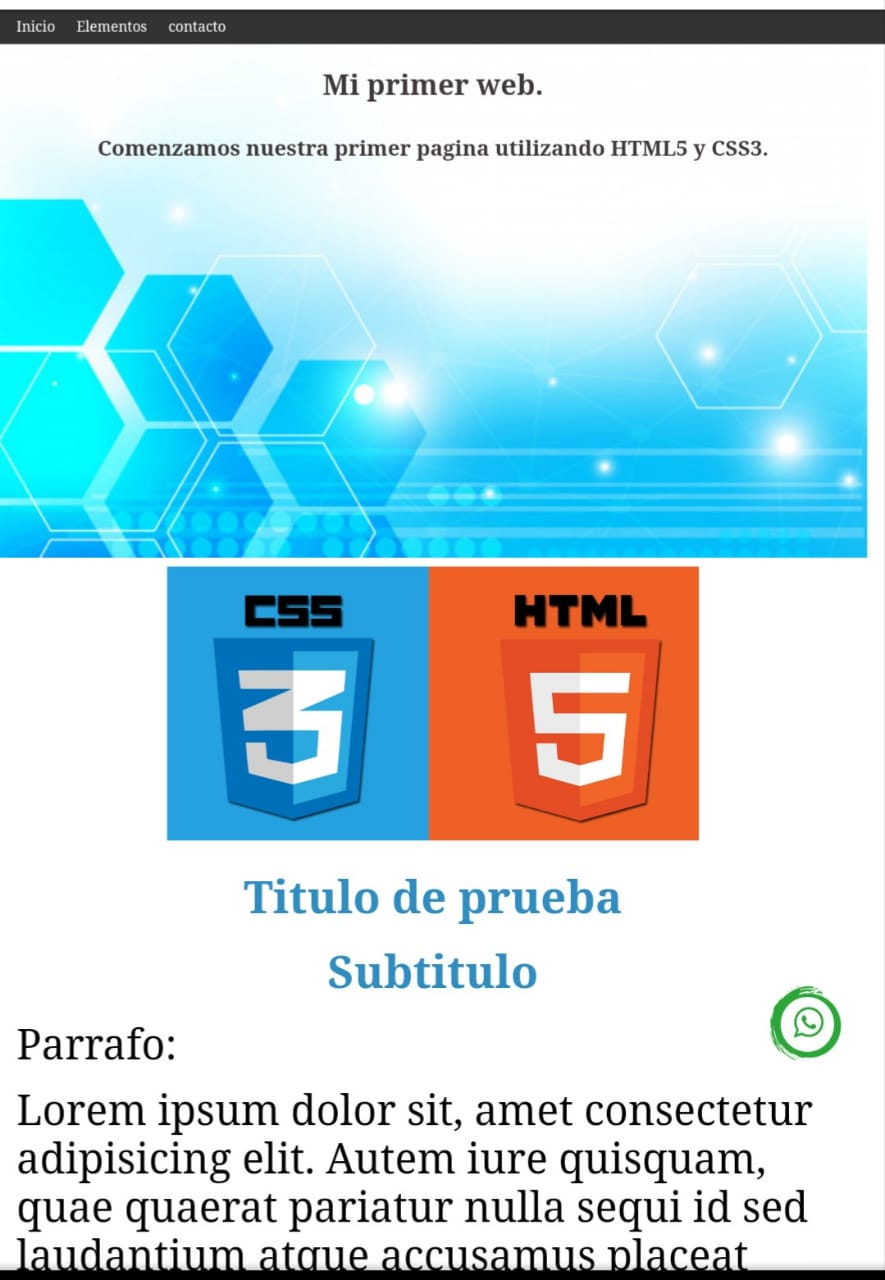
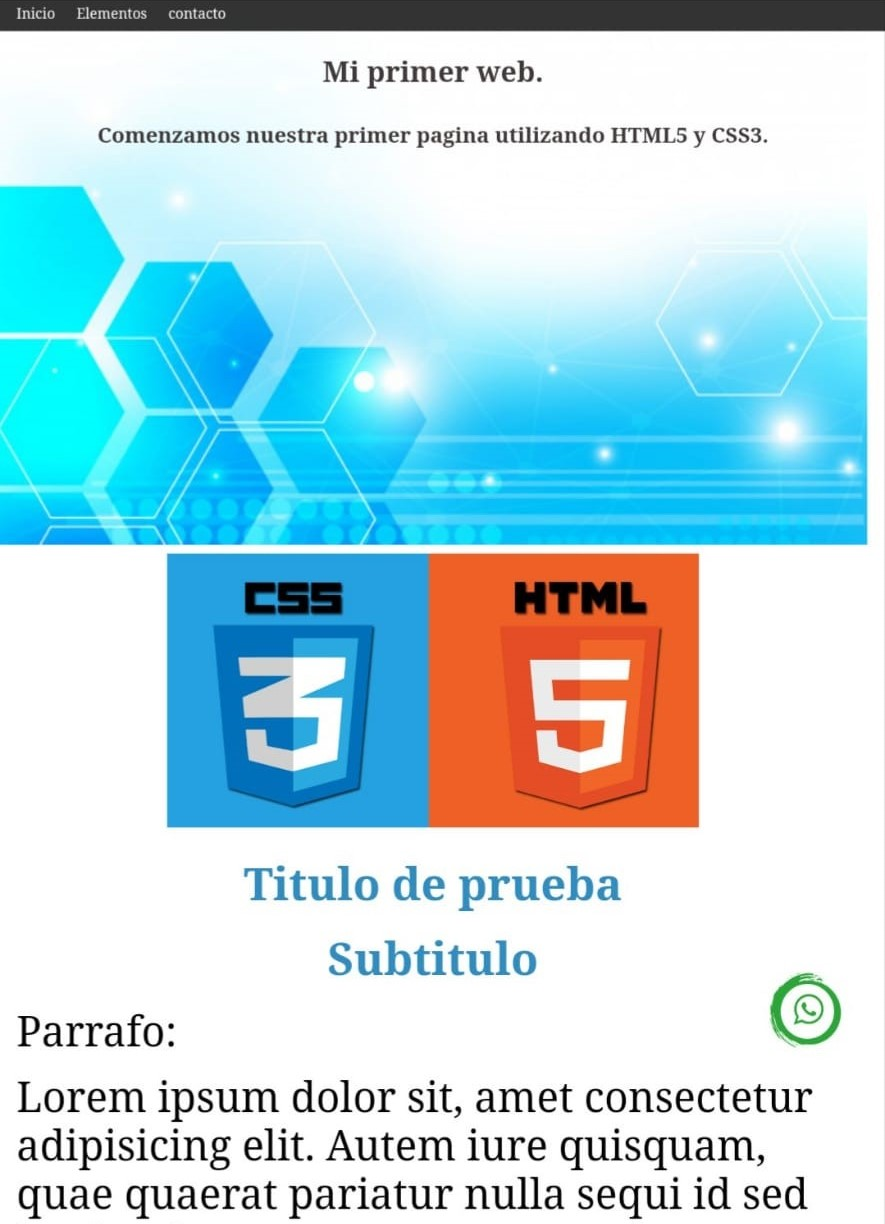
se completo galeria y se agrego foto de perfil

diff --git a/index.html b/index.html
@@ -9,7 +9,6 @@
         integrity="sha384-Vkoo8x4CGsO3+Hhxv8T/Q5PaXtkKtu6ug5TOeNV6gBiFeWPGFN9MuhOf23Q9Ifjh" crossorigin="anonymous">
     <script src="https://kit.fontawesome.com/6dac794d34.js" crossorigin="anonymous"></script>
     <link rel="stylesheet" href="css/style.css">
-    <!--agregar metas de autor descripcion y key-->
 </head>
 
 <body>
@@ -17,7 +16,7 @@
     <header>
         <nav class="navbar navbar-expand-lg navbar-dark bg-dark">
             <div class="container">
-                <a class="navbar-brand" href="#">Juan Manuel Pacheco</a>
+                <a class="navbar-brand" href="index.html">Juan Manuel Pacheco</a>
                 <button class="navbar-toggler" type="button" data-toggle="collapse"
                     data-target="#navbarSupportedContent" aria-controls="navbarSupportedContent" aria-expanded="false"
                     aria-label="Toggle navigation">
@@ -52,13 +51,13 @@
     </header>
 
     <section class="fondo text-center py-4 text-light">
-        <img src="img/descarga.jpg" width="150px" class="rounded-circle">
+        <img src="img/Foto Perfil/2.JPG" width="250px" class="rounded-circle">
         <h3 class="mt-3">Juan Manuel Pacheco</h3>
         <p class="lead">Software developer</p>
     </section>
 
     <section class="container">
-        <h2 class="display-4 text-center my-4" id="sobremi">Sobre mi</h2>
+        <h2 class="display-4 text-center my-5 lead" id="sobremi">Sobre mi</h2>
         <article class="shadow-lg p-3 mb-5 bg-white rounded">
             <h3>Información Básica</h3>
             <hr>
@@ -77,7 +76,7 @@
                 nostrum veritatis nam nulla numquam perferendis corporis error maxime sed est, aliquam odio quo quaerat.
                 Ipsum debitis tenetur molestias. Error, sunt?</p>
         </article>
-        <h2 class="display-4 text-center my-4" id="experiencialaboral">Experiencia laboral</h2>
+        <h2 class="display-4 text-center my-5 lead" id="experiencialaboral">Experiencia laboral</h2>
         <article class="mb-5 shadow-lg">
             <div class="card mb-3">
                 <div class="row no-gutters">
@@ -141,7 +140,7 @@
                 </div>
             </div>
         </article>
-        <h2 class="display-4 text-center my-4" id="educacion">Educación</h2>
+        <h2 class="display-4 text-center my-5 lead" id="educacion">Educación</h2>
         <div class="row">
             <article class="shadow-lg col-lg-4">
                 <div class="card mb-3">
@@ -197,7 +196,8 @@
             </article>
         </div>
 
-        <h2 class="display-4 text-center my-4" id="habilidades">Habilidades</h2>
+        <h2 class="display-4 text-center my-5 lead" id="habilidades">Habilidades</h2>
+        <hr>
 
         <div class="row shadow-lg">
             <div class="col-sm-12 col-lg-6">
@@ -213,7 +213,22 @@
                     <div class="progress-bar progress-bar-striped" role="progressbar" style="width: 70%"
                         aria-valuenow="10" aria-valuemin="0" aria-valuemax="100"></div>
                 </div>
+                <p>Flex Box</p>
+                <div class="progress mb-3">
+                    <div class="progress-bar progress-bar-striped" role="progressbar" style="width: 70%"
+                        aria-valuenow="10" aria-valuemin="0" aria-valuemax="100"></div>
+                </div>
                 <p>Boostrap</p>
+                <div class="progress mb-3">
+                    <div class="progress-bar progress-bar-striped" role="progressbar" style="width: 70%"
+                        aria-valuenow="10" aria-valuemin="0" aria-valuemax="100"></div>
+                </div>
+                <p>Box Model</p>
+                <div class="progress mb-3">
+                    <div class="progress-bar progress-bar-striped" role="progressbar" style="width: 70%"
+                        aria-valuenow="10" aria-valuemin="0" aria-valuemax="100"></div>
+                </div>
+                <p>Responsive</p>
                 <div class="progress mb-3">
                     <div class="progress-bar progress-bar-striped" role="progressbar" style="width: 70%"
                         aria-valuenow="10" aria-valuemin="0" aria-valuemax="100"></div>
@@ -222,35 +237,15 @@
             <div class="col-sm-12 col-lg-6">
                 <h1>Back-end</h1>
                 <hr>
-                <p>Nodem</p>
-                <div class="progress">
-                    <div class="progress-bar progress-bar-striped" role="progressbar" style="width: 70%"
-                        aria-valuenow="10" aria-valuemin="0" aria-valuemax="100"></div>
-                </div>
-                <p>Express</p>
-                <div class="progress">
-                    <div class="progress-bar progress-bar-striped" role="progressbar" style="width: 70%"
-                        aria-valuenow="10" aria-valuemin="0" aria-valuemax="100"></div>
-                </div>
             </div>
             <div class="w-100"></div>
             <div class="col-sm-12 col-lg-6">
                 <h1 class="mt-5">Base de datos</h1>
                 <hr>
-                <p>Mongo DB</p>
-                <div class="progress">
-                    <div class="progress-bar progress-bar-striped" role="progressbar" style="width: 70%"
-                        aria-valuenow="10" aria-valuemin="0" aria-valuemax="100"></div>
-                </div>
             </div>
             <div class="col-sm-12 col-lg-6">
                 <h1 class="mt-5">Otros</h1>
                 <hr>
-                <p>Scrum</p>
-                <div class="progress">
-                    <div class="progress-bar progress-bar-striped" role="progressbar" style="width: 70%"
-                        aria-valuenow="10" aria-valuemin="0" aria-valuemax="100"></div>
-                </div>
                 <p>Git</p>
                 <div class="progress mb-3">
                     <div class="progress-bar progress-bar-striped" role="progressbar" style="width: 70%"
@@ -259,8 +254,182 @@
             </div>
         </div>
 
-        <h2 class="display-4 text-center my-4" id="portfolio">Portfolio</h2>
+        <h2 class="display-4 text-center my-5 lead" id="portfolio">Portfolio</h2>
 
+        <section class="container">
+            <div class="row">
+                <div class="col-md-4 col-sm-12 my-3 imghov">
+                    <div class="img">
+                        <img src="/img/portfolio/galeria de img c-f-1.jpeg" alt="c-f-2" class="w-100 h-100 galeria">
+                        <div class="overlay">
+                            <p class="text-light px-2">En esta imágen se aprecia nuestro primer trabajo con
+                                flex box donde aprendimos a aplicar estilos, bordes, difuminados, darle sombra y
+                                empezamos a
+                                trabajar con las media query, small, medium, extra small.</p>
+                        </div>
+                    </div>
+                </div>
+
+                <div class="col-md-4 col-sm-12  my-3 imghov">
+                    <div class="img">
+                        <img src="/img/portfolio/galeria de img c-f-2.jpeg" alt="c-f-2" class="galeria w-100 h-100">
+                        <div class="overlay">
+                            <p class="text-light px-2">En esta imágen se aprecia nuestro primer trabajo con flex box
+                                donde aprendimos a aplicar estilos, bordes, difuminados, darle sombra y empezamos a
+                                trabajar con las media query, small, medium, extra small.</p>
+                        </div>
+                    </div>
+                </div>
+
+                <div class="col-md-4 col-sm-12 my-3 imghov">
+                    <div class="img">
+                        <img src="/img/portfolio/galeria de img c-f-3.jpeg" alt="c-f-3" class="galeria w-100 h-100">
+                        <div class="overlay"><a href="https://galeria-de-imagenes.netlify.app/" target="_blank"><button
+                                    type="button" class="btn btn-outline-light">Boton</button></a>
+                        </div>
+                    </div>
+                </div>
+
+                <div class="col-md-4 col-sm-12 my-3 imghov">
+                    <div class="img">
+                        <img src="/img/portfolio/pag de panaderia-4.jpeg" alt="panaderia-4" class="galeria w-100 h-100">
+                        <div class="overlay">
+                            <p class="text-light px-2">Nuestro primera práctica desarrollando una página web, dónde
+                                aprendimos no solo a
+                                trabajar con boostrap, sino que aprendimos a realizar breadcrumb, slider y paginación,
+                                trabajar con páginas como font awesome.</p>
+                        </div>
+                    </div>
+                </div>
+
+                <div class="col-md-4 col-sm-12 my-3 imghov">
+                    <div class="img">
+                        <img src="/img/portfolio/pag de panaderia.jpeg" alt="panaderia" class="galeria w-100 h-100">
+                        <div class="overlay"><a href="https://panaderia-comision-1a.netlify.app/"
+                                target="_blank"><button type="button" class="btn btn-outline-light">Boton</button></a>
+                        </div>
+                    </div>
+                </div>
+
+                <div class="col-md-4 col-sm-12 my-3 imghov">
+                    <div class="img">
+                        <img src="/img/portfolio/primer proyecto html.jpeg" alt="html" class="galeria w-100 h-100">
+                        <div class="overlay"><a href="https://primer-proyecto-html.netlify.app/" target="_blank"><button
+                                    type="button" class="btn btn-outline-light">Boton</button></a>
+                        </div>
+                    </div>
+                </div>
+
+                <div class="col-md-4 col-sm-12 my-3 imghov">
+                    <div class="img">
+                        <img src="/img/portfolio/web robotica-contactanos.jpeg" alt="contactos"
+                            class="galeria w-100 h-100">
+                        <div class="overlay">
+                            <p class="text-light px-2">Primer proyecto final, nos dividieron en grupos, nos
+                                dieron a elegir un tema y en base a
+                                eso desarrollar una página web, en esta imágen se aprecia una de las páginas
+                                creadas,
+                                "contactos".</p>
+                        </div>
+                    </div>
+                </div>
+
+                <div class="col-md-4 col-sm-12 my-3 imghov">
+                    <div class="img">
+                        <img src="/img/portfolio/web robotica-error 404.jpeg" alt="error.404"
+                            class="galeria w-100 h-100">
+                        <div class="overlay">
+                            <p class="text-light px-2">Fue una experiencia sin dudas muy linda, forme parte
+                                de un
+                                grupo exelente donde hubo compromiso y entusiasmo desde el primer momento, siempre
+                                respetando a cada inegrante y buscando la manera de colaborar entre todos.</p>
+                        </div>
+                    </div>
+                </div>
+
+                <div class="col-md-4 col-sm-12 my-3 imghov">
+                    <div class="img">
+                        <img src="/img/portfolio/web robotica-footer.jpeg" alt="footer" class="galeria w-100 h-100">
+                        <div class="overlay">
+                            <p class="text-light px-2">Acá podemos observar el trabajo terminado de nuestro
+                                footer, lo realizamos con boostrap, logramos hacerlo responsive, que cada parte se
+                                adapte y
+                                quede bien visible, un trabajo sin dudas muy lindo aplicando lo aprendido.</p>
+                        </div>
+                    </div>
+                </div>
+
+                <div class="col-md-4 col-sm-12 my-3 imghov">
+                    <div class="img">
+                        <img src="/img/portfolio/web robotica-galeria-2.jpeg" alt="galeria-2"
+                            class="galeria w-100 h-100">
+                        <div class="overlay">
+                            <p class="text-light px-2">En esta imágen apreciamos una parte de nuestra galería. Si bien
+                                no fue un trabajo exelente sirvio como aprendizaje a la hora de exponer esta
+                                parte, las correcciones que nos marco el jurado y así poder mejorar a futuro.</p>
+                        </div>
+                    </div>
+                </div>
+
+                <div class="col-md-4 col-sm-12 my-3 imghov">
+                    <div class="img">
+                        <img src="/img/portfolio/web robotica-galeria.jpeg" alt="galeria" class="galeria w-100 h-100">
+                        <div class="overlay">
+                            <p class="text-light px-2">Me toco realizar la parte de la galería como parte
+                                del proyecto, me decidí por utlizar cards colocarles títulos y un pequeño parrafo
+                                descriptivo a algunas fotos y a otras un botón donde abriría una ventana modal
+                                mostrando un video para explicar un poco más.</p>
+                        </div>
+                    </div>
+                </div>
+
+                <div class="col-md-4 col-sm-12 my-3 imghov">
+                    <div class="img">
+                        <img src="/img/portfolio/web robotica-login-1.jpeg" alt="login-1" class="galeria w-100 h-100">
+                        <div class="overlay">
+                            <p class="text-light px-2">Nuestra página de lógin donde además podemos
+                                apreciar nuestro botón hamburguesa, un trabajo exelente realizado por uno de los
+                                integrantes del
+                                grupo, sin dudas muy limpio y visualmente perfecto.</p>
+                        </div>
+                    </div>
+                </div>
+
+                <div class="col-md-4 col-sm-12 my-3 imghov">
+                    <div class="img">
+                        <img src="/img/portfolio/web robotica-login.jpeg" alt="login" class="galeria w-100 h-100">
+                        <div class="overlay">
+                            <p class="text-light px-2">Se puede ver que colocamos una imágen y contenido
+                                totalmente responsive, con botones que haciendo clic te llevaban a las distintas
+                                plataformas mensionadas y un botón de registro que te llevaba a nuesta págna de
+                                error 404.</p>
+                        </div>
+                    </div>
+                </div>
+
+                <div class="col-md-4 col-sm-12 my-3 imghov">
+                    <div class="img">
+                        <img src="/img/portfolio/web robotica-nosotros-1.jpeg" alt="nosotros-1"
+                            class="galeria w-100 h-100">
+                        <div class="overlay">
+                            <p class="text-light px-2">No podía faltar una imágen de quienes realizaron la
+                                web, un trabajo muy prolijo, donde se uso un filtro que al pasar por la imágen
+                                pasaría de estar gris a darle color.</p>
+                        </div>
+                    </div>
+                </div>
+
+                <div class="col-md-4 col-sm-12 my-3 imghov">
+                    <div class="img">
+                        <img src="/img/portfolio/web robotica-nosotros.jpeg" alt="nosotros" class="galeria w-100 h-100">
+                        <div class="overlay"><a href="https://robotica-educativa.netlify.app/" target="_blank"><button
+                                    type="button" class="btn btn-outline-light">Boton</button></a>
+                        </div>
+                    </div>
+                </div>
+
+            </div>
+        </section>
 
     </section>
 

diff --git a/css/style.css b/css/style.css
@@ -7,3 +7,51 @@ background-image: linear-gradient(147deg, #FFE53B 0%, #FF2525 74%);
 .html{
     scroll-behavior: smooth;
 }
+
+.galeria{
+    object-fit: cover;
+    border-radius: 1em;  
+}
+
+.img{
+height: 100%;
+width: 100%;
+position: relative;
+}
+
+.overlay {
+    position: absolute;
+    bottom: 0px;
+    left: 0px;
+    background-color: rgba(0, 123, 255, 0.8);
+    height: 0%;
+    width: 100%;
+    transition: 1s ease;
+    border-radius: 1em;
+    overflow: hidden;
+}
+
+.overlay p{
+    position: absolute;
+    top: 50%;
+    left: 50%;
+    text-align: center;
+    transform: translate(-50%, -50%);
+    width: 100%;
+    line-height: 2.0;
+}
+
+.overlay button{
+    font-weight: 300;
+    font-size: 30px;
+    position: absolute;
+    top: 50%;
+    left: 50%;
+    text-align: center;
+    transform: translate(-50%, -50%);
+}
+
+.imghov:hover .overlay {
+    height: 100%;
+    cursor: pointer;
+}
